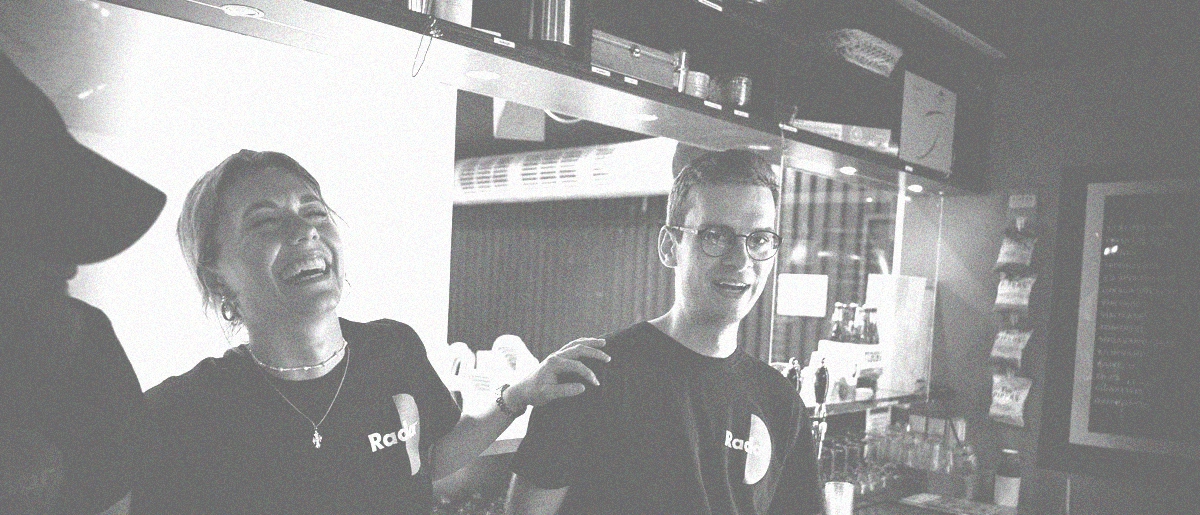
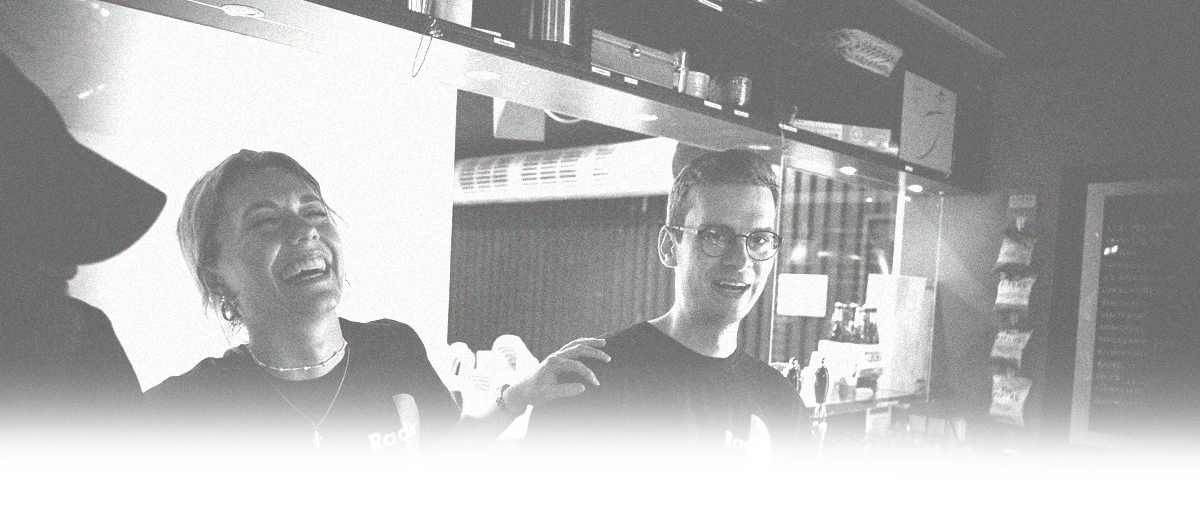
Farver

Changed region(s): [[0.0, 0.7146, 1.0, 1.0]]

diff --git a/css/stot.css b/css/stot.css
@@ -248,7 +248,7 @@ header .navbar ul li ul li ul {
     height: 100vh;
     overflow: hidden;
     display: flex;
-    background-image: url(/img/stot.webp);
+    background-image: url(/img/stot.webp)  ;
     background-blend-mode: multiply;
     background-color: var(--secondary-color);
     background-repeat:no-repeat;
@@ -314,6 +314,17 @@ header .navbar ul li ul li ul {
     position: absolute;
 }
 
+.arrow {
+    fill: none;
+    stroke: var(--white);
+    stroke-linecap: round;
+    stroke-linejoin: round;
+    stroke-width: 10px;
+    width: 6%;
+    position: absolute;
+    bottom: 10%;
+}
+
 
 /* LANDING PAGE SLUT */
 
@@ -326,7 +337,8 @@ header .navbar ul li ul li ul {
 }
 
 .absolute-white {
-    color: var(--white)
+    color: var(--black);
+    margin-top: 25px;
 }
 
 .padding {
@@ -395,16 +407,10 @@ header .navbar ul li ul li ul {
     display: flex;
 }
 
-.two {
-    display: flex;
-    flex-direction: column;
-    width: 50%;
-    gap: 20px;
-}
-
 .one {
     display: flex;
     width: 25%;
+    margin: 0 20px
 }
 
 .three {

diff --git a/stot.html b/stot.html
@@ -47,7 +47,11 @@
             <article class="overskrift">
                     <h2>STØT</h2>
                     <h2>RADAR</h2>
-                    
+                    <svg class="arrow" id="Layer_1" xmlns="http://www.w3.org/2000/svg" version="1.1" viewBox="0 0 94.9 52.4">
+                        <!-- Generator: Adobe Illustrator 29.1.0, SVG Export Plug-In . SVG Version: 2.1.0 Build 142)  -->
+                       
+                        <polyline class="st0" points="5 5 47.4 47.4 89.9 5"/>
+                      </svg>
             </article>
         </main>
     </section>
